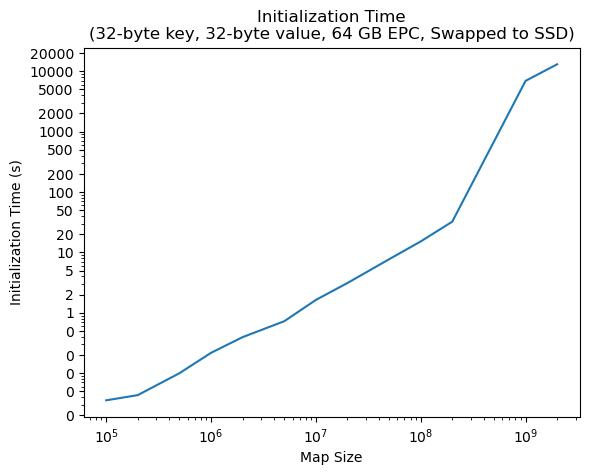
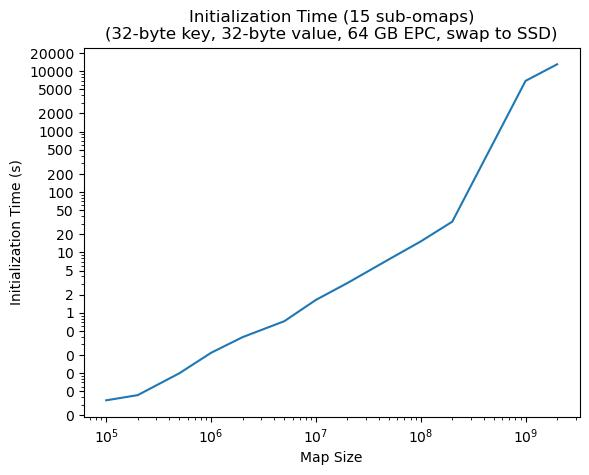
change graph size

Changed region(s): [[0.1528, 0.0, 0.9779, 0.0884]]

diff --git a/applications/omap/perf_tests/plotLatency.py b/applications/omap/perf_tests/plotLatency.py
@@ -33,67 +33,13 @@ def parse_text_file(file_path):
             data['init_time'].append(float(init_time_match.group(1)))
     return data
 
-# Function to create a plot based on the parsed data and save it as a JPG image
-def create_and_save_plot_find(data, map_size, file_path):
+
+def create_and_save_plot_init_single_thread(data, file_path, num_sub_omap=1):
     plt.figure()
-    plt.title(f'Actual Throughput for Map Size {map_size} (ERC20 Balance)')
-    plt.xlabel('Number of Threads')
-    plt.ylabel('Throughput (Query / Second)')
-    sorted_legend_labels = sorted(set(data['batch_size']), key=lambda x: x)
-    xmax = 0
-    ymax = 0
-    for batch_size in sorted_legend_labels:
-        if batch_size == 1:
-            continue
-        x_values = []
-        y_values = []
-
-        for i in range(len(data['map_size'])):
-            if data['map_size'][i] == map_size and (data['batch_size'][i] == batch_size or data['batch_size'][i] == 1):
-                x_values.append(data['thread_count'][i])
-                y_values.append(1.0 / (data['find_time'][i] * 1e-6))  # Convert us to seconds
-        plt.plot(x_values, y_values, label=f'Batch Size {batch_size}')
-        xmax = max(xmax, max(x_values))
-        ymax = max(ymax, max(y_values))
-    plt.xlim(0, xmax)
-    plt.ylim(0, ymax)
-    plt.legend(loc='upper right', bbox_to_anchor=(1.0, 1.0), borderaxespad=0.5)
-    plt.ticklabel_format(axis='y', style='sci', scilimits=(0,0))
-    plt.savefig(file_path + f'Throughput_MapSize_{map_size}.jpg', bbox_inches='tight')  # Save the plot as a JPG image
-
-def create_and_save_plot_init(data, file_path):
-    plt.figure()
-    plt.title(f'Initialization Time (ERC20 Balance)')
-    plt.xlabel('Number of Threads')
-    plt.ylabel('Initialization Time (s)\n')
-    sorted_map_sizes = sorted(set(data['map_size']), key=lambda x: x)
-    for map_size in sorted_map_sizes:
-        x_values = []
-        y_values = []
-
-        for i in range(len(data['map_size'])):
-            if data['map_size'][i] == map_size and (data['batch_size'][i] == 1000 or data['batch_size'][i] == 1):
-                x_values.append(data['thread_count'][i])
-                y_values.append(data['init_time'][i])  # Convert us to seconds
-        # print(x_values, y_values)
-        plt.plot(x_values, y_values, label=f'Map Size {map_size}')
-        plt.xticks(x_values)
-    plt.legend(loc='upper right', bbox_to_anchor=(1.0, 1.0), borderaxespad=0.5)
-    # plt.ticklabel_format(axis='y', style='sci', scilimits=(0,0))
-    plt.yscale('log')
-    plt.xscale('log')
-    plt.gca().xaxis.set_major_locator(LogLocator(base=10.0, subs=[1.0, 2.0, 5.0]))
-    # plt.gca().yaxis.set_major_locator(LogLocator(base=10.0, subs=[1.0, 2.0, 5.0]))
-    plt.gca().xaxis.set_major_formatter(ScalarFormatter())
-    # plt.gca().yaxis.set_major_formatter(ScalarFormatter())
-    # show all the x ticks
-    
-    plt.savefig(file_path + 'Init_Time.jpg', bbox_inches='tight')  # Save the plot as a JPG image
-
-
-def create_and_save_plot_init_single_thread(data, file_path):
-    plt.figure()
-    plt.title(f'Initialization Time\n(32-byte key, 32-byte value, 64 GB EPC, Swapped to SSD)')
+    if num_sub_omap == 1:
+        plt.title(f'Initialization Time\n(32-byte key, 32-byte value, 64 GB EPC, swap to SSD)')
+    else:
+        plt.title(f'Initialization Time ({num_sub_omap} sub-omaps)\n(32-byte key, 32-byte value, 64 GB EPC, swap to SSD)')
     plt.xlabel('Map Size')
     plt.ylabel('Initialization Time (s)')
     
@@ -186,4 +132,4 @@ file_name = 'par_30t_64g.log'
 parsed_data = parse_text_file(file_path + file_name)
 create_and_save_plot_find_single_thread(parsed_data, file_path, 1000)
 create_and_save_plot_find_single_thread(parsed_data, file_path, 100000)
-create_and_save_plot_init_single_thread(parsed_data, file_path)
+create_and_save_plot_init_single_thread(parsed_data, file_path, 15)

diff --git a/README.md b/README.md
@@ -92,19 +92,20 @@ The benchmark below is conducted in SGX prerelease mode with an Intel(R) Xeon(R)
 
 First, we test the average latency of sequential access. In the test, each access is launched right after the previous access returns the result. A pipelining optimization is enabled to utilize multiple cores.
 
-![image](applications/omap/perf_tests/pipeline/Latency1.jpg)
 
-![image](applications/omap/perf_tests/pipeline/Init_Time.jpg)
+<img src="applications/omap/perf_tests/pipeline/Latency1.jpg" alt="Latency of sequential access" width="400"/>
+
+<img src="applications/omap/perf_tests/pipeline/Init_Time.jpg" alt="Initialization time" width="400"/>
 
 ### Batch Access
 
 Then, we test the average latency for a batch of accesses. The accesses are obliviously load-balanced to multiple sub omaps and processed in parallel. When data fits in the enclave, batched access is faster than sequential access due to more parallelism; otherwise, the performance are close since both are limited by the I/O bandwidth.
 
-![image](applications/omap/perf_tests/pardisk/Latency1000.jpg)
+<img src="applications/omap/perf_tests/pardisk/Latency1000.jpg" alt="Latency of batch access of size 1000" width="400"/>
 
-![image](applications/omap/perf_tests/pardisk/Latency100000.jpg)
+<img src="applications/omap/perf_tests/pardisk/Latency100000.jpg" alt="Latency of batch access of size 100000" width="400"/>
 
-![image](applications/omap/perf_tests/pardisk/Init_Time.jpg)
+<img src="applications/omap/perf_tests/pardisk/Init_Time.jpg" alt="Initialization time of parallel oMap" width="400"/>
 
 ## Architecture Overview
 
